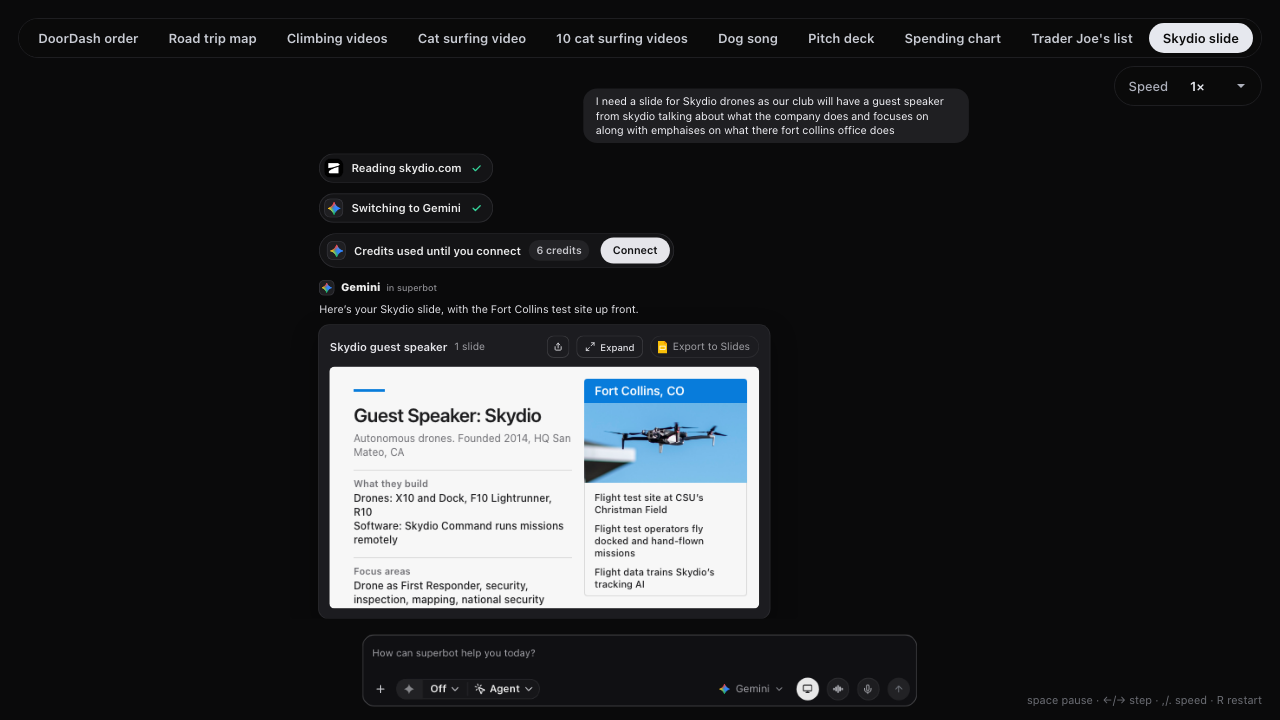
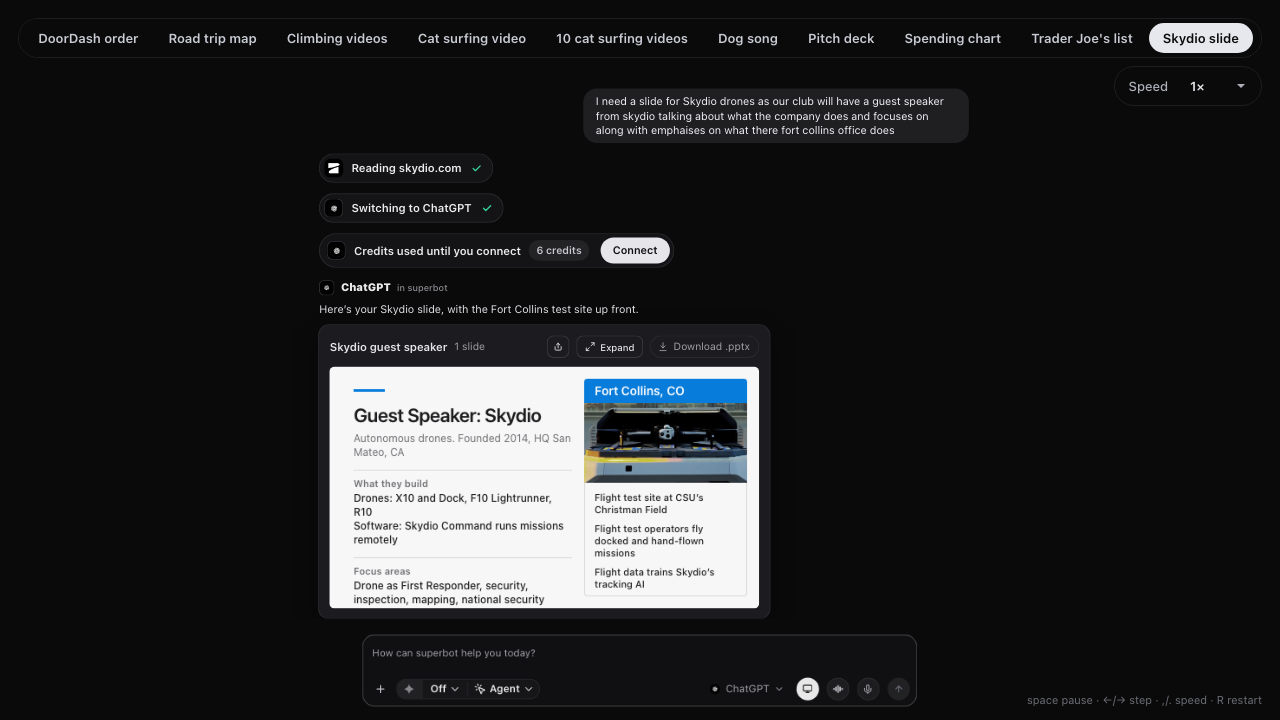
Skydio variant: ChatGPT answers instead of Gemini, official skydio.com Dock photo
- routeBy.skydio now routes to a new APPS.chatgpt (ChatGPT in superbot, OpenAI mark already in brand/); chips read Reading skydio.com, then Switching to ChatGPT; Creating-slide and credits tiles follow.
- Slide card head: Download .pptx replaces the Google Slides Export control.
- Photo: X10 in Dock for X10 from skydio.com/dock (Sanity CDN, site-cropped); replaces the Commons X10 shot. CREDITS.txt updated.
- Gallery desc and thumbnail refreshed; skydio beat ?v=2, css ?v=2; chat.js ?v=15, tabs ?v=8, timeline ?v=9 cache keys.

diff --git a/animations/gemini-muse-meme-superbot-6fbc38f8/scenes/tabs-assets/chat.9b47fc30.js b/animations/gemini-muse-meme-superbot-6fbc38f8/scenes/tabs-assets/chat.9b47fc30.js
@@ -20,7 +20,7 @@ import pitchdeck from './beats/pitchdeck.fad54971.js?v=2';
 import bakery from './beats/bakery.005f5570.js?v=3';
 import spending from './beats/spending.b92c87dc.js?v=1';
 import traderjoes from './beats/traderjoes.4aaedb8c.js?v=1';
-import skydio from './beats/skydio.c9774aa7.js?v=1';
+import skydio from './beats/skydio.c9774aa7.js?v=2';
 import reminder from './beats/reminder.e55fb320.js?v=3';
 import computerV3 from './beats/computer.ba3976b6.js?v=8';
 import { variant } from '../../variant.9e82faf1.js';
@@ -35,12 +35,13 @@ export const CHAT_T0 = 1.6; // the empty state has settled; the first ask starts
 const APPS = {
   codex: { name: 'GPT-5 Codex', logo: brand('openai-logo.svg'), sub: '' },
   gemini: { name: 'Gemini', logo: brand('gemini-logo.svg'), sub: 'in superbot' },
+  chatgpt: { name: 'ChatGPT', logo: brand('openai-logo.svg'), sub: 'in superbot' }, // the skydio variant's answering app (its reply header reads ChatGPT in superbot)
   gslides: { name: 'Google Slides', logo: brand('slides-logo.svg'), sub: '', tool: true }, // a connected tool, never the answering app (Gemini answers)
   fal: { name: 'fal.ai', logo: brand('fal-icon.svg'), sub: 'in superbot' }, // the catsurf variant's answering app: fal.ai renders the video and answers
   gmaps: { name: 'Google Maps', logo: brand('maps-logo.svg'), sub: '', tool: true }, // the roadtrip variant's connected tool, likewise
   maps: { name: 'Maps', logo: brand('maps-logo.svg'), sub: 'in superbot' }, // the roadtrip variant's answering app (its reply header reads Maps in superbot)
   gsheets: { name: 'Google Sheets', logo: img('spending.b92c87dc/google-sheets.svg'), sub: '', tool: true }, // the spending variant's connected tool, likewise
-  skydio: { name: 'Skydio', logo: img('skydio.c9774aa7/skydio-mark.png'), sub: '', tool: true }, // the skydio variant's browsed site, likewise (Gemini answers)
+  skydio: { name: 'Skydio', logo: img('skydio.c9774aa7/skydio-mark.png'), sub: '', tool: true }, // the skydio variant's browsed site, likewise (ChatGPT answers)
   traderjoes: { name: "Trader Joe's", logo: img(TRADERJOES_LOGO), sub: '', tool: true }, // the traderjoes variant's connected store, likewise (Gemini answers)
   doordash: { name: 'DoorDash', logo: brand('doordash-logo.svg'), sub: 'in superbot' },
   meshy: { name: 'Meshy', logo: brand('meshy-icon.svg'), sub: 'in superbot' },
@@ -68,7 +69,7 @@ const BASE = [
     // that much longer (see leadOf). `extra` seconds stretch that variant's loop past the base route's end (the beat
     // is the last, so nothing after it moves). `typeCps` types that variant's ask at that many characters a second
     // instead of the base window (see typing), which moves its send, chips, reply and beat later by the difference
-    routeBy:{ photoedit: { app: 'gemini', mod: gemini, chips: [['gemini', 'Switching to Gemini']] }, '3d': { app: 'meshy', mod: gemini, chips: [['meshy', 'Switching to Meshy']] }, pitchdeck: { app: 'gemini', mod: pitchdeck, chips: [['gslides', 'Connecting to Google Slides'], ['gemini', 'Switching to Gemini']] }, roadtrip: { app: 'maps', mod: gemini, chips: [['gmaps', 'Connecting to Maps']] }, spending: { app: 'gemini', mod: spending, chips: [['gsheets', 'Connecting to Google Sheets'], ['gemini', 'Switching to Gemini']] }, skydio: { app: 'gemini', mod: skydio, chips: [['skydio', 'Reading skydio.com'], ['gemini', 'Switching to Gemini']], typeCps: 80, extra: 1.6 }, traderjoes: { app: 'gemini', mod: traderjoes, chips: [['traderjoes', "Connecting to Trader Joe's"], ['gemini', 'Switching to Gemini']], typeCps: 100, extra: 2.4 }, doordash:{ app: 'doordash', mod: doordash, chips: [['doordash', 'Connecting to DoorDash']] }, climbing: { app: 'deepseek', mod: climb, chips: [['youtube', 'Connecting to Youtube'], ['deepseek', 'Switching to DeepSeek']] }, catsurf: { app: 'fal', mod: catsurf, chips: [['fal', 'Connecting Fal.ai']], extra: 7 }, catsurf10: { app: 'fal', mod: catsurf10, chips: [['fal', 'Connecting Fal.ai']], extra: 7 },catgif: { app: 'gemini', mod: catgif, chips: [['gemini', 'Switching to Gemini']] }, song: { app: 'fishaudio', mod: song, chips: [['fishaudio', 'Connected to Fish Audio']], extra: 5 }, bedtime: { app: 'gemini', mod: bedtime, chips: [['gemini', 'Switching to Gemini']] }, bakery: { app: 'opus', mod: bakery, chips: [['opus', 'Switching to Opus 5.5']] }, podcast: { app: 'gemini', mod: podcast, chips: [['gemini', 'Switching to Gemini']] }, reminder: { app: 'superbot', mod: reminder, chips: [['superbot', 'Connecting to your phone']], extra: 1.5 }, 'computer-control-v3-soft': { app: 'superbot', mod: computerV3, chips: [['superbot', 'Taking control of your computer']], extra: 1.6 } },
+    routeBy:{ photoedit: { app: 'gemini', mod: gemini, chips: [['gemini', 'Switching to Gemini']] }, '3d': { app: 'meshy', mod: gemini, chips: [['meshy', 'Switching to Meshy']] }, pitchdeck: { app: 'gemini', mod: pitchdeck, chips: [['gslides', 'Connecting to Google Slides'], ['gemini', 'Switching to Gemini']] }, roadtrip: { app: 'maps', mod: gemini, chips: [['gmaps', 'Connecting to Maps']] }, spending: { app: 'gemini', mod: spending, chips: [['gsheets', 'Connecting to Google Sheets'], ['gemini', 'Switching to Gemini']] }, skydio: { app: 'chatgpt', mod: skydio, chips: [['skydio', 'Reading skydio.com'], ['chatgpt', 'Switching to ChatGPT']], typeCps: 80, extra: 1.6 }, traderjoes: { app: 'gemini', mod: traderjoes, chips: [['traderjoes', "Connecting to Trader Joe's"], ['gemini', 'Switching to Gemini']], typeCps: 100, extra: 2.4 }, doordash:{ app: 'doordash', mod: doordash, chips: [['doordash', 'Connecting to DoorDash']] }, climbing: { app: 'deepseek', mod: climb, chips: [['youtube', 'Connecting to Youtube'], ['deepseek', 'Switching to DeepSeek']] }, catsurf: { app: 'fal', mod: catsurf, chips: [['fal', 'Connecting Fal.ai']], extra: 7 }, catsurf10: { app: 'fal', mod: catsurf10, chips: [['fal', 'Connecting Fal.ai']], extra: 7 },catgif: { app: 'gemini', mod: catgif, chips: [['gemini', 'Switching to Gemini']] }, song: { app: 'fishaudio', mod: song, chips: [['fishaudio', 'Connected to Fish Audio']], extra: 5 }, bedtime: { app: 'gemini', mod: bedtime, chips: [['gemini', 'Switching to Gemini']] }, bakery: { app: 'opus', mod: bakery, chips: [['opus', 'Switching to Opus 5.5']] }, podcast: { app: 'gemini', mod: podcast, chips: [['gemini', 'Switching to Gemini']] }, reminder: { app: 'superbot', mod: reminder, chips: [['superbot', 'Connecting to your phone']], extra: 1.5 }, 'computer-control-v3-soft': { app: 'superbot', mod: computerV3, chips: [['superbot', 'Taking control of your computer']], extra: 1.6 } },
   },
 ];
 

diff --git a/animations/gemini-muse-meme-superbot-6fbc38f8/scenes/tabs-assets/beats/skydio.c9774aa7.js b/animations/gemini-muse-meme-superbot-6fbc38f8/scenes/tabs-assets/beats/skydio.c9774aa7.js
@@ -1,14 +1,14 @@
 // Skydio slide beat (the 'skydio' variant): asked for one slide on Skydio for a club's guest speaker, with the Fort Collins
-// flight test site emphasised, superbot reads skydio.com (a connector chip with the site's own mark), then Gemini answers
-// with a line and ONE Google-Slides-style slide in the pitchdeck variant's frame (beats/pitchdeck.fad54971.js: the dark
-// card, its head with Share, Expand and Export to Slides, and the 496 x 279 stage with its shimmer skeleton). No filmstrip
+// flight test site emphasised, superbot reads skydio.com (a connector chip with the site's own mark), then ChatGPT answers
+// with a line and ONE slide in the pitchdeck variant's frame (beats/pitchdeck.fad54971.js: the dark
+// card, its head with Share, Expand and a Download .pptx control, and the 496 x 279 stage with its shimmer skeleton). No filmstrip
 // and no advancing: the stage shimmers, the slide lands from a slight zoom on the same clock as the other variants'
 // results (beats/thumb-land.309eb9c5.js), and its pieces then build in order, the title rule, the headline, what Skydio
 // builds and focuses on, and last the Fort Collins panel, which is the slide's one bold element. Squeezed into the window
 // the router leaves (times(r, end)); a pure function of t, with no pointer. Its stylesheet (../skydio.c9774aa7.css) loads with
 // the module, and the pitchdeck stylesheet it builds on loads beside it (once). Every line of copy is a sourced fact
 // (img/skydio.c9774aa7/CREDITS.txt): the sources describe a flight test site in Fort Collins, not an office, so the slide
-// says test site. The photo is a real public-domain photo of a Skydio X10.
+// says test site. The photo is Skydio's own product image of an X10 in its Dock, from skydio.com.
 import { lerp, seg, outCubic, streamCount } from '../../../lib.9b47fc30.js';
 import { track } from '../../../loads.9e82faf1.js';
 import { landing, shimmer, settle } from './thumb-land.309eb9c5.js';
@@ -18,10 +18,10 @@ import { EXPAND, loadSheet as loadFrameSheet } from './bakery.005f5570.js?v=3';
 import { shareBtn } from './share.29a362ea.js';
 
 const SAY = 'Here’s your Skydio slide, with the Fort Collins test site up front.';
-const CSS = new URL('../skydio.c9774aa7.css?v=1', import.meta.url).href;
+const CSS = new URL('../skydio.c9774aa7.css?v=2', import.meta.url).href;
 const PD_CSS = new URL('../pitchdeck.fad54971.css?v=6', import.meta.url).href;
 const TITLE = 'Skydio guest speaker slide';
-const PHOTO = 'skydio.c9774aa7/x10-in-flight.jpg'; // 640 x 425, public domain (CREDITS.txt)
+const PHOTO = 'skydio.c9774aa7/dock-for-x10.jpg'; // 752 x 367 crop, Skydio's own product image of an X10 in its Dock (CREDITS.txt)
 
 // the slide's inner markup at stage size. data-fx marks what builds once the slide has landed (the same row / x vocabulary
 // as the pitchdeck slides), data-k its order, data-s / data-d an own start offset and duration in seconds
@@ -35,7 +35,7 @@ const slide = (x) => `<div class="sd-sl">
   </div>
   <div class="sd-fc" data-fx="row" data-s="0.3" data-d="0.34">
     <div class="sd-band">Fort Collins, CO</div>
-    <img class="sd-photo" src="${x.img(PHOTO)}" width="188" height="92" alt="A Skydio X10 drone in flight">
+    <img class="sd-photo" src="${x.img(PHOTO)}" width="188" height="92" alt="A Skydio X10 drone sitting inside an open Skydio Dock for X10">
     <ul>
       <li data-fx="row" data-s="0.78">Flight test site at CSU’s Christman Field</li>
       <li data-fx="row" data-s="0.92">Flight test operators fly docked and hand-flown missions</li>
@@ -80,9 +80,9 @@ export default {
     const T = k.T;
     const say = x.el(`<div class="qc-say"><span class="qc-vis"></span><span class="qc-hid">${x.esc(SAY)}</span></div>`);
     const block = x.el(`<div class="pd sd">
-      <div class="pd-head"><b>Skydio guest speaker</b><span>1 slide</span>${shareBtn(TITLE)}${EXPAND}<span class="pd-exp"><img src="${x.brand('slides-logo.svg')}" alt=""/>Export to Slides</span></div>
+      <div class="pd-head"><b>Skydio guest speaker</b><span>1 slide</span>${shareBtn(TITLE)}${EXPAND}<span class="pd-exp"><svg viewBox="0 0 24 24" aria-hidden="true"><path d="M12 3v12M7 10l5 5 5-5M5 21h14"/></svg>Download .pptx</span></div>
       <div class="pd-stage"><div class="pd-shm"><i></i></div><div class="sd-sw">${slide(x)}</div>
-        <span class="qc-genl">${x.tile('gemini')}Creating slide</span>
+        <span class="qc-genl">${x.tile('chatgpt')}Creating slide</span>
       </div>
     </div>`);
     const $ = (s) => block.querySelector(s);

diff --git a/animations/gemini-muse-meme-superbot-6fbc38f8/scenes/tabs-assets/skydio.c9774aa7.css b/animations/gemini-muse-meme-superbot-6fbc38f8/scenes/tabs-assets/skydio.c9774aa7.css
@@ -3,10 +3,14 @@
    the module loads beside it). The slide is authored once at stage size. Palette, sampled from skydio.com's own CSS: paper
    #f7f7f7, ink #1d1d1f, muted #6e6e73, hairline #d9d9d9 and Skydio blue #087cdb, the one accent, used only on the title rule
    and the Fort Collins panel's band. Radius: 4px for the panel and its photo (the stage's own 6px is the pitchdeck's). The
-   Fort Collins panel is the one bold element: the right 40% of the slide, a band over a real Skydio photo over three facts. */
+   Fort Collins panel is the one bold element: the right 40% of the slide, a band over Skydio's own X10-in-Dock photo over three facts. */
 /* the connected site's chip tile, as the other connectors' (chat.css .qc-t-gemini): the site's own mark fills it */
 #s-tabs .sbsite .hub .qc-t-skydio { background: #000; box-shadow: inset 0 0 0 1px #34343a; }
 #s-tabs .sbsite .hub .qc-t-skydio img { width: 100%; height: 100%; object-fit: cover; }
+/* ChatGPT answers this variant: its tile is the OpenAI mark's own black disc, ringed as the skydio tile is */
+#s-tabs .sbsite .hub .qc-t-chatgpt { background: #000; box-shadow: inset 0 0 0 1px #34343a; }
+/* the head's Download .pptx control carries a download glyph where the pitchdeck's Export to Slides carries the Slides logo */
+#s-tabs .sbsite .hub .sd .pd-exp svg { display: block; width: 12px; height: 12px; fill: none; stroke: currentColor; stroke-width: 2; stroke-linecap: round; stroke-linejoin: round; }
 
 #s-tabs .sbsite .hub .sd-sw { position: absolute; inset: 0; will-change: transform; }
 #s-tabs .sbsite .hub .sd-sl { position: absolute; inset: 0; overflow: hidden; background: #f7f7f7; color: #1d1d1f; font-family: var(--ui); }
@@ -20,7 +24,7 @@
 
 #s-tabs .sbsite .hub .sd-fc { position: absolute; right: 14px; top: 14px; bottom: 14px; width: 188px; overflow: hidden; border-radius: 4px; background: #f7f7f7; box-shadow: inset 0 0 0 1px #d9d9d9; }
 #s-tabs .sbsite .hub .sd-band { height: 28px; padding: 0 12px; background: #087cdb; font: 600 14px/28px var(--ui); letter-spacing: -.01em; color: #fff; }
-#s-tabs .sbsite .hub .sd-photo { display: block; width: 188px; height: 92px; object-fit: cover; object-position: 50% 45%; }
+#s-tabs .sbsite .hub .sd-photo { display: block; width: 188px; height: 92px; object-fit: cover; object-position: 50% 50%; }
 #s-tabs .sbsite .hub .sd-fc ul { margin: 0; padding: 10px 12px 0; list-style: none; }
 #s-tabs .sbsite .hub .sd-fc li { padding: 0 0 8px; font: 500 11px/14px var(--ui); color: #1d1d1f; }
 

diff --git a/animations/gemini-muse-meme-superbot-6fbc38f8/timeline.9b47fc30.js b/animations/gemini-muse-meme-superbot-6fbc38f8/timeline.9b47fc30.js
@@ -3,10 +3,10 @@
 // a 60fps quantised clock. The one scene (scenes/tabs.js) plays once and holds its last frame: no loop. Space after
 // the end replays it from the start.
 import * as lib from './lib.9b47fc30.js';
-import tabs from './scenes/tabs.9b47fc30.js?v=7';
+import tabs from './scenes/tabs.9b47fc30.js?v=8';
 import { settled } from './loads.9e82faf1.js';
 // the same module instance the tabs scene uses (the full URL, query included, keys an instance)
-import { BEATS, typeShift } from './scenes/tabs-assets/chat.9b47fc30.js?v=14';
+import { BEATS, typeShift } from './scenes/tabs-assets/chat.9b47fc30.js?v=15';
 import { variant } from './variant.9e82faf1.js';
 
 const { seg } = lib;

diff --git a/animations/gemini-muse-meme-superbot-6fbc38f8/scenes/tabs.9b47fc30.js b/animations/gemini-muse-meme-superbot-6fbc38f8/scenes/tabs.9b47fc30.js
@@ -5,7 +5,7 @@
 // (tabs-assets/chat.js). render(lt) is a pure function of local time. The scene keeps the id "tabs" so the hub's
 // generated stylesheets (scoped under #s-tabs) apply unchanged.
 import { hubMarkup } from './tabs-assets/hub-markup.9b47fc30.js';
-import { mountChat, renderChat, CHAT_T0, chatEnd, sendAt } from './tabs-assets/chat.9b47fc30.js?v=14';
+import { mountChat, renderChat, CHAT_T0, chatEnd, sendAt } from './tabs-assets/chat.9b47fc30.js?v=15';
 import { lerp, seg, outCubic, inOutCubic } from '../lib.9b47fc30.js';
 import { variant } from '../variant.9e82faf1.js';
 

diff --git a/animations/gemini-muse-meme-superbot-6fbc38f8/index.html b/animations/gemini-muse-meme-superbot-6fbc38f8/index.html
@@ -68,7 +68,7 @@
   };
 })();
 </script>
-<script type="module" src="timeline.9b47fc30.js?v=8" onload="bootLoaded()" onerror="bootFailed()"></script>
+<script type="module" src="timeline.9b47fc30.js?v=9" onload="bootLoaded()" onerror="bootFailed()"></script>
 <script type="module" src="variant-select.9e82faf1.js?v=9" onload="bootLoaded()" onerror="bootFailed()"></script>
 </body>
 </html>
